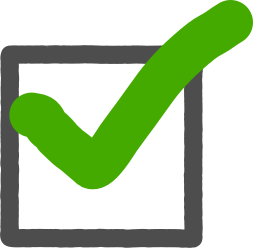
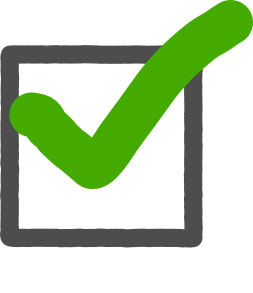
Task list font and check boxes fixed

diff --git a/src/main/java/com/compassmaster/todoapp/TaskWindowController.java b/src/main/java/com/compassmaster/todoapp/TaskWindowController.java
@@ -15,6 +15,7 @@ import javafx.scene.layout.HBox;
 import javafx.scene.layout.VBox;
 import javafx.scene.text.Font;
 import javafx.scene.text.Text;
+import javafx.scene.text.TextAlignment;
 
 import java.io.*;
 import java.util.ArrayList;
@@ -158,14 +159,16 @@ public class TaskWindowController {
     private void createTask(String task, char state, int id){
         HBox newBox = new HBox(10);
         newBox.setAlignment(Pos.CENTER_LEFT);
+        newBox.setStyle("-fx-min-height: 30;");
 
         Text text = new Text(task);
-        text.setFont(Font.font(16));
+        text.setFont(Font.font("Untitled1",20));
 
         CheckBox box = new CheckBox();
         box.setId(Integer.toString(id));
-        box.setPrefSize(16, 16);
+        box.setPrefSize(18, 18);
         box.getStyleClass().add("check");
+        box.setAlignment(Pos.CENTER_LEFT);
 
         newBox.getChildren().addAll(text, box);
 
